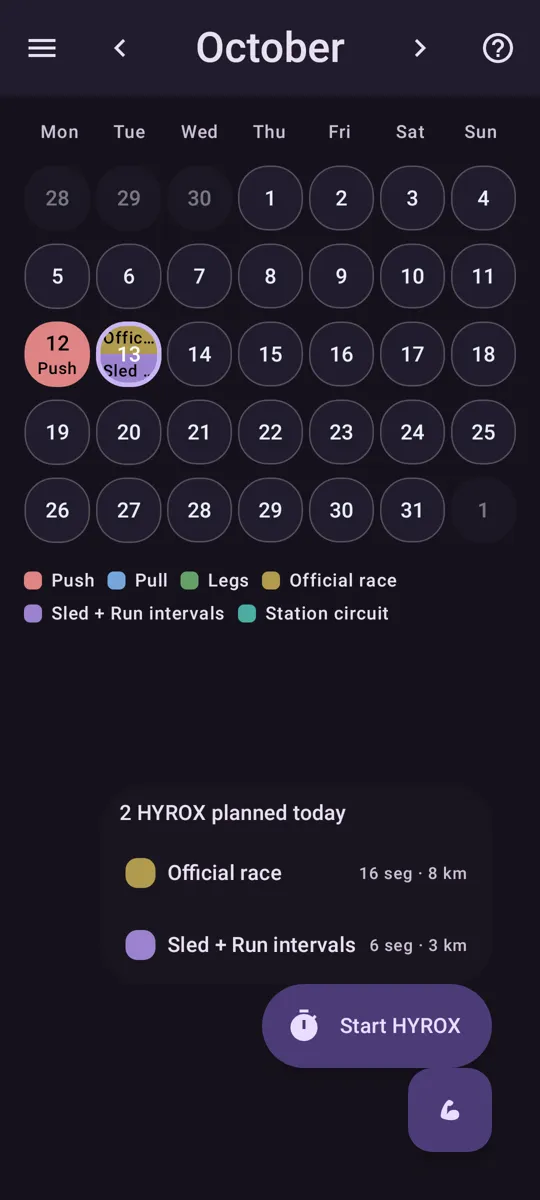
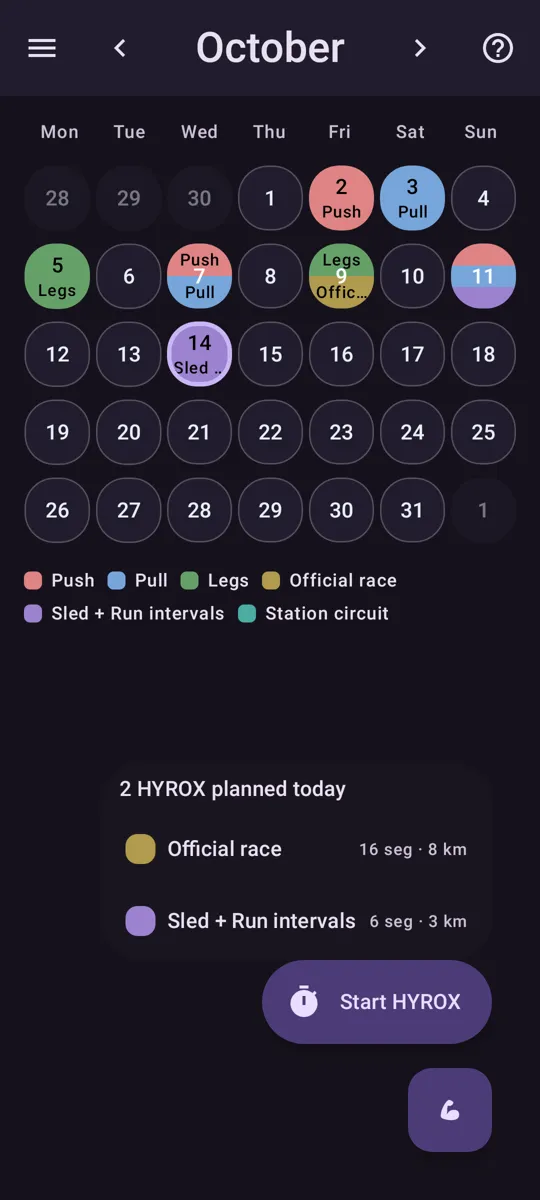
Help: re-capture all screenshots from 2.0.9 renders (sample data, uniform 540x1200 webp)

diff --git a/help/index.html b/help/index.html
@@ -35,16 +35,12 @@
   </ol>
 
   <figure>
-    <img src="images/help-calendar.png" alt="Liftloq Calendar month view" loading="lazy" width="540" height="1112" />
-    <figcaption>Calendar: tap a day to open it.</figcaption>
+    <img src="images/help-calendar.webp" alt="Liftloq Calendar month view" loading="lazy" width="540" height="1200" />
+    <figcaption>Calendar: tap a day to open it. Each day shows up to 3 colour bands; names appear with 1–2 entries.</figcaption>
   </figure>
   <figure>
-    <img src="images/help-day-cap.webp" alt="Day sheet with 3 of 3 entries picked" loading="lazy" width="540" height="843" />
+    <img src="images/help-day-sheet.webp" alt="Day sheet with 3 of 3 entries picked" loading="lazy" width="540" height="1200" />
     <figcaption>Day sheet at the limit: 3 of 3 picked, the rest is disabled.</figcaption>
-  </figure>
-  <figure>
-    <img src="images/help-calendar-3-entries.webp" alt="Calendar cells with one, two and three colour bands" loading="lazy" width="540" height="480" />
-    <figcaption>Cells with 1, 2 and 3 entries. Names show for 1–2 entries; with 3, the bands show the colours.</figcaption>
   </figure>
   <h2>2. Add and remove workout types</h2>
   <ol class="steps">
@@ -54,8 +50,8 @@
   </ol>
 
   <figure>
-    <img src="images/help-workout-types.png" alt="Workout types list with delete and plus button" loading="lazy" width="540" height="1112" />
-    <figcaption>Workout types list: delete with trash, add with <strong>+</strong>.</figcaption>
+    <img src="images/help-workout-types.webp" alt="Workout types list with delete and plus button" loading="lazy" width="540" height="1200" />
+    <figcaption>Workout types (Bodybuilding): delete with trash, add with <strong>+</strong>.</figcaption>
   </figure>
 
   <h2>3. Track supplements (Supps money pit)</h2>
@@ -67,7 +63,7 @@
   </ol>
 
   <figure>
-    <img src="images/help-supps-money-pit.png" alt="Supps money pit with plus to add a purchase" loading="lazy" width="540" height="1112" />
+    <img src="images/help-supps.webp" alt="Supps money pit with plus to add a purchase" loading="lazy" width="540" height="1200" />
     <figcaption>Supps money pit: tap <strong>+</strong> to add a purchase, then <strong>Save</strong>.</figcaption>
   </figure>
 
@@ -106,7 +102,7 @@
   </figure>
   <figure>
     <img src="images/help-stats-hyrox.webp" alt="Stats HYROX tab" loading="lazy" width="540" height="1200" />
-    <figcaption>Stats → HYROX β.</figcaption>
+    <figcaption>Stats → HYROX β: History on top, then templates and best splits.</figcaption>
   </figure>
   <h2>5. Settings: sections and toggles</h2>
   <ol class="steps">
